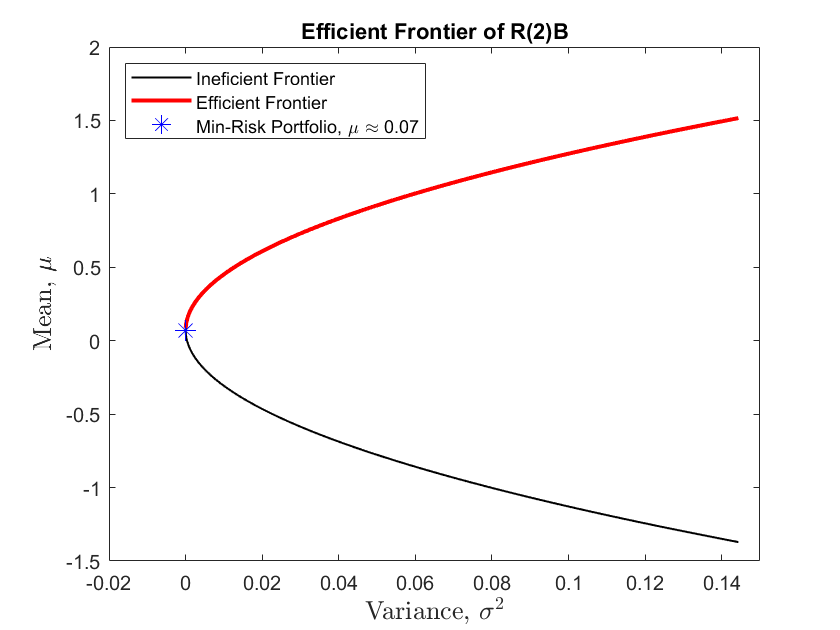
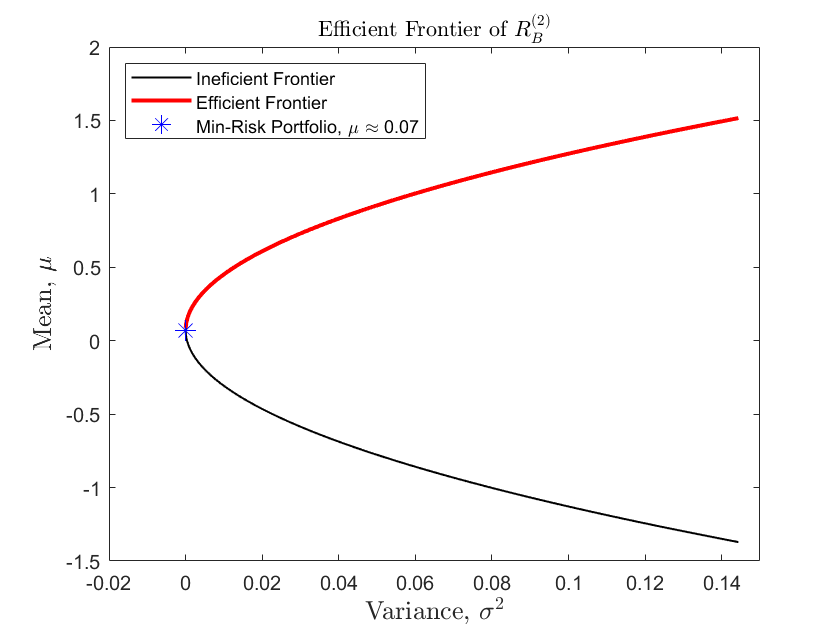
Changes to multiple files

Changed region(s): [[0.3405, 0.0302, 0.681, 0.0905]]

diff --git a/Portfolio Optimization/Part 1/tom_Nov_1.m b/Portfolio Optimization/Part 1/tom_Nov_1.m
@@ -78,78 +78,106 @@ C_B = cov(B_normal); %Find covariance matrix
 %%
 %Question 3
 
-%Find Annual Returns
-n1=4; %number of years in period 1
-%Interval A
-annual_A = zeros(n1,6); %Create an empty 4by6 matrix to store annual returns
-for i=1:n1 %Cycle through rows of annual matrix
-    raw = 1+raw_interval_A(12*(i-1)+1,:); %Growth in January
-    for j = ((i-1)*12+1)+1:i*12 %Cycle through each set of 12 rows (raws)
-        raw = raw.*(1+raw_interval_A(j,:));
-    end
-    annual_A(i,:) = raw;
-end
-annual_A = annual_A-1;
+% %Find Annual Returns
+% n1=4; %number of years in period 1
+% %Interval A
+% annual_A = zeros(n1,6); %Create an empty 4by6 matrix to store annual returns
+% for i=1:n1 %Cycle through rows of annual matrix
+%     raw = 1+raw_interval_A(12*(i-1)+1,:); %Growth in January
+%     for j = ((i-1)*12+1)+1:i*12 %Cycle through each set of 12 rows (raws)
+%         raw = raw.*(1+raw_interval_A(j,:));
+%     end
+%     annual_A(i,:) = raw;
+% end
+% annual_A = annual_A-1;
 
-%Interval B
-annual_B = zeros(n1,6); %Create an empty 4by6 matrix to store annual returns
-for i=1:n1 %Cycle through rows of annual matrix
-    raw = 1+raw_interval_B(12*(i-1)+1,:); 
-    for j = ((i-1)*12+1)+1:i*12 %Cycle through each set of 12 rows (raws)
-        raw = raw.*(1+raw_interval_B(j,:));
-    end
-    annual_B(i,:) = raw;
-end
-annual_B = annual_B-1;
+% %Interval B
+% annual_B = zeros(n1,6); %Create an empty 4by6 matrix to store annual returns
+% for i=1:n1 %Cycle through rows of annual matrix
+%     raw = 1+raw_interval_B(12*(i-1)+1,:); 
+%     for j = ((i-1)*12+1)+1:i*12 %Cycle through each set of 12 rows (raws)
+%         raw = raw.*(1+raw_interval_B(j,:));
+%     end
+%     annual_B(i,:) = raw;
+% end
+% annual_B = annual_B-1;
+% 
+% %Calculate 2 Year Returns
+% 
+% n2=2; 
+% months2=24;
+% 
+% %Interval A
+% two_year_A = zeros(n2,6);
+% for i=1:n2 
+%     raw = 1+raw_interval_A(months2*(i-1)+1,:); 
+%     for j = ((i-1)*months2+1)+1:i*months2 
+%         raw = raw.*(1+raw_interval_A(j,:));
+%     end
+%     two_year_A(i,:) = raw;
+% end
+% two_year_A = two_year_A-1;
+% 
+% %Interval B
+% two_year_B = zeros(n2,6);
+% for i=1:n2 
+%     raw = 1+raw_interval_B(months2*(i-1)+1,:); 
+%     for j = ((i-1)*months2+1)+1:i*months2 
+%         raw = raw.*(1+raw_interval_B(j,:));
+%     end
+%     two_year_B(i,:) = raw;
+% end
+% two_year_B = two_year_B-1;
 
-%Calculate 2 Year Returns
+% %Estimate Parameters for R1 and R2
+% 
+% %Interval A
+% mu_R1_A = mean(annual_A);
+% mu_R2_A = mean(two_year_A);
+% 
+% C_R1_A = cov(annual_A);
+% C_R2_A = cov(two_year_A);
+% 
+% corr_R1_A = corrcoef(annual_A);
+% corr_R2_A = corrcoef(two_year_A);
+% 
+% %Interval B
+% mu_R1_B = mean(annual_B);
+% mu_R2_B = mean(two_year_B);
+% 
+% C_R1_B = cov(annual_B);
+% C_R2_B = cov(two_year_B);
+% 
+% corr_R1_B = corrcoef(annual_B);
+% corr_R2_B = corrcoef(two_year_B);
 
-n2=2; 
-months2=24;
+%(Vish)---------------------------------------------------
+%We have all our monthly returns and covariaces in Q1 already - now we need
+%to use the results in Q2 to calculate these parameters
 
-%Interval A
-two_year_A = zeros(n2,6);
-for i=1:n2 
-    raw = 1+raw_interval_A(months2*(i-1)+1,:); 
-    for j = ((i-1)*months2+1)+1:i*months2 
-        raw = raw.*(1+raw_interval_A(j,:));
-    end
-    two_year_A(i,:) = raw;
-end
-two_year_A = two_year_A-1;
+%Using naive method 
 
-%Interval B
-two_year_B = zeros(n2,6);
-for i=1:n2 
-    raw = 1+raw_interval_B(months2*(i-1)+1,:); 
-    for j = ((i-1)*months2+1)+1:i*months2 
-        raw = raw.*(1+raw_interval_B(j,:));
-    end
-    two_year_B(i,:) = raw;
-end
-two_year_B = two_year_B-1;
+%Yealry Interval (A)
+mu_R1_A = 12*a_A; %na 
+C_R1_A = 12.*C_A; %nB
+corr_R1_A = corrcoef(mu_R1_A);
 
-%Estimate Parameters for R1 and R2
+%Two-Yearly Interval (A)
+mu_R2_A = 24*a_A; %na
+C_R2_A = 24.*C_A; %nB
+corr_R2_A = corrcoef(mu_R2_A);
 
-%Interval A
-mu_R1_A = mean(annual_A);
-mu_R2_A = mean(two_year_A);
+%Yealry Interval (B)
+mu_R1_B = 12*a_B; %na 
+C_R1_B = 12.*C_B; %nB
+corr_R1_B = corrcoef(mu_R1_B);
 
-C_R1_A = cov(annual_A);
-C_R2_A = cov(two_year_A);
+%Two-Yearly Interval (B)
+mu_R2_B = 24*a_B; %na
+C_R2_B = 24.*C_B; %nB
+corr_R2_B = corrcoef(mu_R2_B); 
 
-corr_R1_A = corrcoef(annual_A);
-corr_R2_A = corrcoef(two_year_A);
 
-%Interval B
-mu_R1_B = mean(annual_B);
-mu_R2_B = mean(two_year_B);
-
-C_R1_B = cov(annual_B);
-C_R2_B = cov(two_year_B);
-
-corr_R1_B = corrcoef(annual_B);
-corr_R2_B = corrcoef(two_year_B);
 
 %%
 %Question 4
@@ -239,18 +267,31 @@ d = a*c - b^2;
 mu0 = b/a;var0 = 1/a;
 
 %Space of mu-sigma^2
-t = linspace(-10,10,100);
+t = linspace(-0.1,0.1,100);
 mu = (b + d*t)/a;
 var = (1 + d*t.^2)/a;
 
+%Determining thresholds
+threshold = b/a;
+moreThanThreshold = mu > threshold;
+
+overVar = var(moreThanThreshold);
+overMu = mu(moreThanThreshold);
+
 %Plotting figure
 figure(1)
-plot(var,mu,'LineWidth',2,'Color','magenta')
-ylim([mu0,inf])
-xlim([var0,inf])
-title('Efficient Frontier of R(2)B')
-xlabel('Variance, $\sigma^2$','Interpreter','latex')
-ylabel('Mean, $\mu$','Interpreter','latex')
+
+plot(var,mu,'LineWidth',1,'Color','black')
+hold on
+plot(overVar,overMu,'-','Color','red','LineWidth',2)
+hold on
+plot(var0,mu0,'*','Color','blue','MarkerSize',10)
+%ylim([mu0,inf])
+xlim([-0.02,0.15])
+title('Efficient Frontier of $R^{(2)}_{B}$','Interpreter','latex')
+xlabel('Variance, $\sigma^2$','Interpreter','latex','FontSize',13)
+ylabel('Mean, $\mu$','Interpreter','latex','FontSize',13)
+legend({'Ineficient Frontier','Efficient Frontier','Min-Risk Portfolio, \mu \approx 0.07'},'Location','northwest')
 saveas(gcf,'r1b_EF','png')
 
 %Part b
@@ -275,7 +316,7 @@ dL_dlambda_2 = diff(L,lambda_2) == 0; % derivative of L with respect to lambda 2
 system = [dL_dw1;dL_dw2;dL_dw3;dL_dw4;dL_dw5;dL_dw6;dL_dlambda_1;dL_dlambda_2;s]; % build the system of equations
 s == 0;
 
-%[w1_val, w2_val, w3_val, w4_val, w5_val, w6_val, lambda_1_val,lambda_2_val, s_val] = solve(system, [w1 w2 w3 w4 w5 w6 lambda_1 lambda_2 s], 'Real', true);
-%results_numeric = [w1_val, w2_val, w3_val, w4_val, w5_val, w6_val, lambda_1_val, lambda_2_val, s_val];
+[w1_val, w2_val, w3_val, w4_val, w5_val, w6_val, lambda_1_val,lambda_2_val, s_val] = solve(system, [w1 w2 w3 w4 w5 w6 lambda_1 lambda_2 s], 'Real', true);
+results_numeric = [w1_val, w2_val, w3_val, w4_val, w5_val, w6_val, lambda_1_val, lambda_2_val, s_val];
 
 %Using Interval B Data
